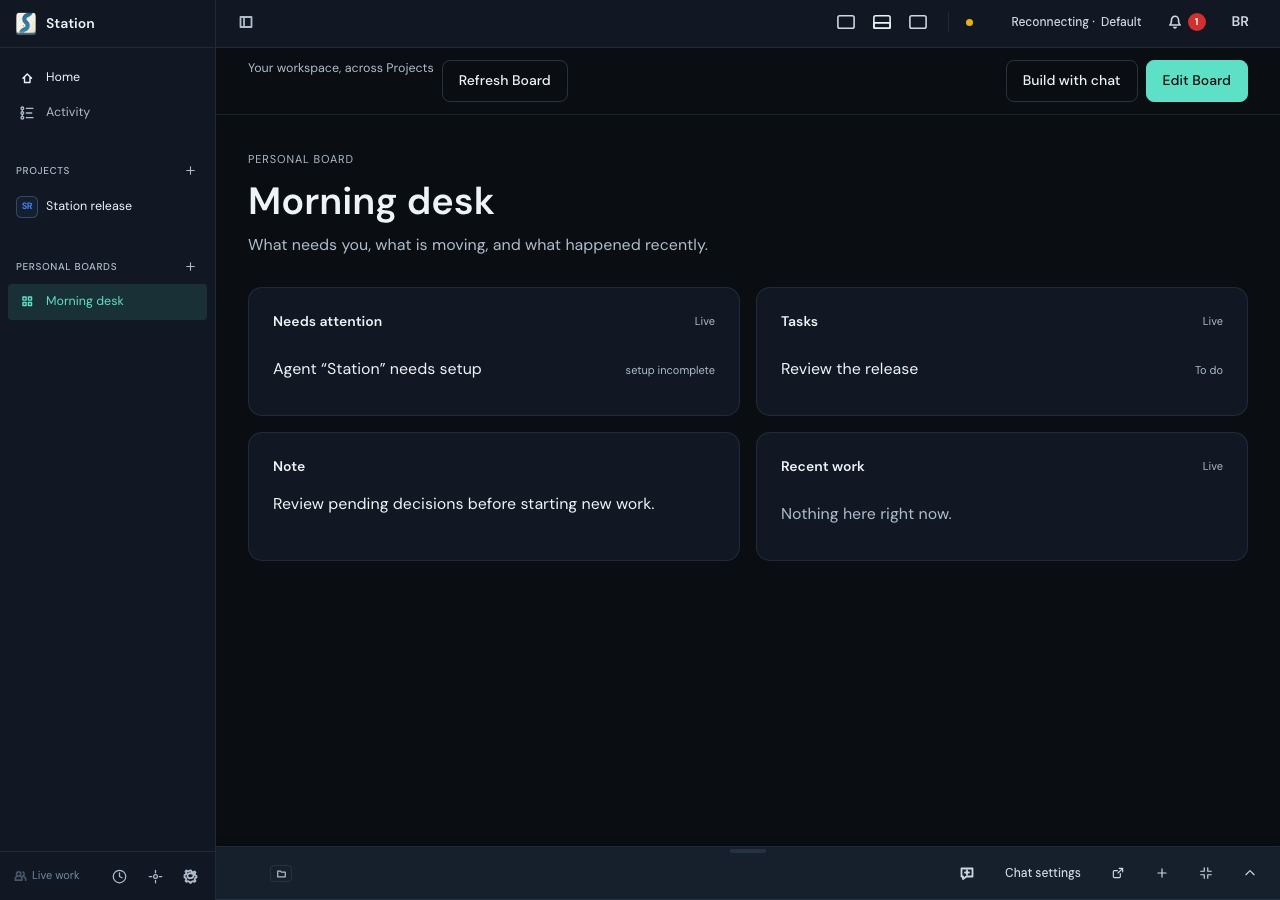
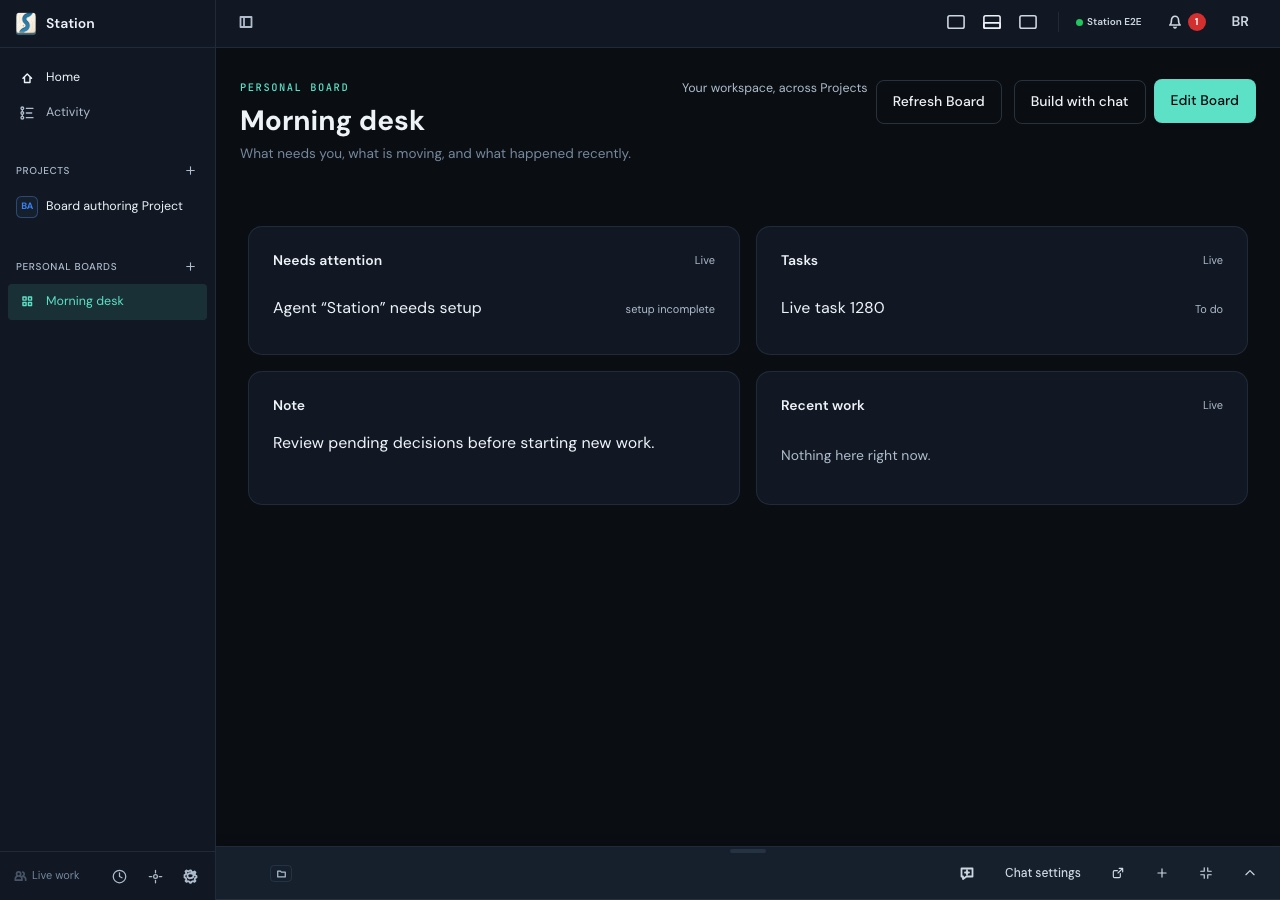
docs(boards): capture final shared shell in both themes

diff --git a/docs/reviews/personal-boards-20261016/README.md b/docs/reviews/personal-boards-20261016/README.md
@@ -1,10 +1,12 @@
 # Personal Board authoring review
 
-Captured from source checkout `11c41c337a39afb72c3cf21716d187878b560fef`
-with the managed `personal-board-review-20261016` development instance and an
-isolated temporary Station home. Production source matches `d77a3f49368`;
-subsequent commits at capture time contain test captures and review records.
-These are actual rendered screens, not mockups or Gallery reference updates.
+Captured from source checkout `e6def2c99423de5d2602b53e8ea9dca56b932118`
+with the managed `e2e-product-1792177228399-opxf45` product-browser run and an
+isolated temporary Station home, at 1280×900 and 390×900. These are actual
+rendered screens, not mockups or Gallery reference updates. The source contains
+the shared PageFrame and intrinsic two-column/stacked layout; the runner stopped
+its isolated Station after all three cases passed (28.7 seconds of browser work).
+The JPEGs are converted from that run's inspected PNGs.
 
 ## Before composing a Board
 
@@ -16,10 +18,10 @@ state before composing, not a screenshot of the prior implementation.
 ## After saving a dashboard
 
 The dashboard was selected from Daily brief, edited through the UI, previewed
-and saved. Its Task was created through the real API in the isolated home.
-The attention item reports that the built-in Agent needs setup; no Agent or
-external provider was dispatched. The header's reconnecting observation is
-preserved rather than replaced with a healthy connection claim.
+and saved. Its Task and Project were created through the real API in the
+isolated home, using dotted Board and Project slugs. The attention item reports
+that the built-in Agent needs setup; no Agent or external provider was
+dispatched. The E2E header reports its own isolated instance connection.
 
 ![A saved Personal Board dashboard with live sections and a note.](dashboard.jpg)
 
@@ -29,18 +31,33 @@ At 390 pixels the same saved sections stack in one column.
 
 ![The saved dashboard at phone width.](mobile.jpg)
 
+## Light theme
+
+The same saved dashboard in the light theme, after CSS transitions settled.
+
+![The saved dashboard in light theme.](dashboard-light.jpg)
+
+![The saved dashboard at phone width in light theme.](mobile-light.jpg)
+
 ## Verification scope
 
 Controlled product browser journeys passed at 1280 and 390 pixels, including
 preview-before-save, reload persistence, a real Task row, a separately arriving
 proposal, explicit Apply and projectless chat picker. A third journey preserves
-legacy tab selection when entering authoring and switching Boards.
+legacy tab selection when entering authoring and switching Boards. The mounted
+browser checks one page heading, two desktop columns, phone stacking and
+settled toolbar controls at least 44 pixels high and inside the viewport.
+The phone capture shows the last card continuing below the visible area; it
+does not prove physical-device scrolling or keyboard geometry.
 
 Route tests cover ownership, schemas, stale revisions, reserved fields, rename,
 promotion and retry recovery. A disabled save precondition produced the intended
 409/200 failure; exact restoration passed 42 tests. Independent verification
 removed the strong publication guard and observed the intended 403/200 failure,
-then restored exact bytes and passed 42 tests. Authenticated internal callers
+then restored exact bytes and passed 42 tests. The later path-compatibility
+slice passed 58 tests across route, MCP-routing and mounted editor owners;
+its regression first rejected a valid dotted Project/Board and admitted
+invalid leading punctuation. Authenticated internal callers
 without an agent-origin marker are refused for both Apply and dismissal.
 
 The screenshot-only cold-build run at `7c40cda25c8` reached its startup budget
